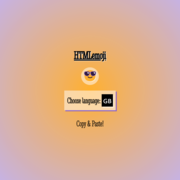
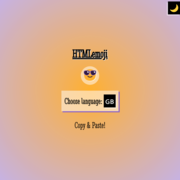
design+

diff --git a/assets/style/style.min.css b/assets/style/style.min.css
@@ -1,1 +1,1 @@
-body{font-family:"Stint Ultra Condensed",serif;font-size:3rem;min-block-size:100vh}::selection{background-color:var(--invert-alpha)}a{color:var(--base);text-decoration-color:transparent}.container{display:grid;position:relative}.theme-toggle{z-index:1000;text-align:right;margin-block-start:1rem;position:absolute;right:0}.btn-toggle{padding:.5rem 0;background-color:var(--invert);box-shadow:-6px 6px 0 0 var(--base-alpha)}.container h1{margin:.5rem 0;font-size:4rem}.container h1 a{color:var(--invert);text-decoration:none;margin:0}.modal{position:relative;background-color:var(--base);text-align:center;border-block-end:6px solid #b665c5}.modal>div{display:grid;min-block-size:100dvh;place-content:center;inset:0;background:radial-gradient(#ffb02e,#8d65c580)}.modal h1{font-size:4rem;padding-block-start:2rem;margin:0 0 2rem;text-shadow:#fff 2px 2px 0}.modal .language{block-size:6rem;text-decoration:none!important}.modal .language a{padding:.5rem;text-decoration:none;background-color:var(--invert);color:var(--base);box-shadow:6px 6px 0 var(--invert-alpha);opacity:.5}.modal .language p{line-height:0;color:#000;text-shadow:var(--invert-alpha) 2px 2px 0}.modal .language a.active{transition:.5s all;background-color:var(--invert);color:var(--base);box-shadow:6px 6px 0 var(--base-alpha);opacity:1}.modal h1 div{text-align:center;background-color:var(--base-alpha);border-radius:50%;block-size:4.4ch;inline-size:4.4ch;line-height:4.4ch;padding:.2rem;margin:2rem auto 0}.modal h1 span{text-decoration:underline;word-wrap:break-word;padding:.5rem 1rem}.modal .language{text-decoration:underline;text-decoration-color:#b665c5;background-color:var(--base-alpha);word-wrap:break-word;padding:.5rem 1rem;box-shadow:6px 6px 0 #8d65c5}.modal .language a.lang.hu{cursor:not-allowed}main p{color:var(--base);background-color:var(--invert);border-radius:2rem;padding:0 1.5rem;inline-size:auto;margin-inline:auto;display:inline-block}.query{box-shadow:inset 0 5px 0 var(--base-alpha);text-align:center;padding:1rem;background-color:var(--invert)}.container>:nth-child(4){border-block-start:6px solid #b665c5;box-shadow:none}.query span{display:grid;color:var(--base);text-align:left;grid-template-columns:50% 50%}.query label{line-height:4rem;text-align:right;color:var(--base)}.query input[type=text]{border:4px solid var(--base-alpha);background-color:var(--base);color:var(--invert);inline-size:17ch;border-radius:2rem;text-indent:.5rem;box-shadow:0 0 1rem var(--invert-alpha)}.query input[type=text]::placeholder{background-color:var(--base);color:var(--invert)}.pagecontent{background-color:var(--base);padding:0;line-height:1.5}.pagecontent .text{display:inline-block;inline-size:100%;color:var(--invert);margin-block:0;margin-inline:auto;background:var(--base)}.pagecontent .text em{color:var(--invert);white-space:nowrap}.pagecontent .text span{color:var(--invert);margin-block-end:.5rem}.pagecontent .text p{background-color:var(--base);margin:1rem 0}.pagecontent .text strong{color:var(--base);background-color:var(--invert);padding:.25rem;margin:0;place-self:baseline;margin-inline:auto}.pagecontent .parts section>.accordion__content{letter-spacing:1px}.pagecontent .parts section h2{color:var(--base);letter-spacing:2px;background-color:var(--invert);margin:0 1rem 1rem;max-inline-size:fit-content;padding:0 1rem;border-radius:2rem;font-size:2rem}.pagecontent .parts section .accordion__content h2:last-child{margin-block-end:0}.pagecontent .parts section .accordion__content h2:only-child{padding-block-end:0}.pagecontent .parts section h1{color:var(--base);background-color:var(--base-transparent);padding:0 1rem;border-radius:3rem;margin:1rem .5rem;max-inline-size:calc(100% - 1rem);font-size:3rem}.pagecontent .parts section hr{margin:0 1rem;border-color:var(--base-alpha);color:var(--base);block-size:4px;background-color:var(--base-alpha)}.pagecontent p{margin:1rem 1rem 2rem;inline-size:auto;display:inline-block;text-align:left}.pagecontent p strong{text-transform:uppercase;background-color:var(--invert-alpha);padding:0 1rem;margin-inline-end:1rem;letter-spacing:1px}.pagecontent .emojis,.pagecontent .parts section>article>div{text-align:center;font-size:5.5rem;letter-spacing:1px;text-shadow:var(--base) 2px 2px 0;place-content:center;display:grid;inline-size:calc(100vw - 5rem);grid-template-columns:repeat(7,calc((100vw / 7) - 1rem));list-style-type:none}.pagecontent .parts section>article>div>div{display:flex;flex-direction:column-reverse;margin-block-end:2rem;place-content:baseline}.pagecontent .parts section>div>div{display:grid;grid-template-rows:1fr 1fr}.pagecontent .emojis{display:none}.pagecontent .emojis li{font-size:3rem}.pagecontent .emojis>div,.pagecontent .parts>div{display:grid;text-decoration:none;background-color:rgba(141,101,197,.65);padding:0;border-radius:1.5rem;margin:1rem;border:1px solid rgba(255,255,255,.5)}.pagecontent .emojis span,.pagecontent .parts :not(.accordion__buttonspan) span{word-break:break-word;display:grid;place-content:center;z-index:100;background-color:var(--base);color:var(--invert);text-shadow:none;border-radius:1rem;padding:.25rem 1rem .5rem;line-height:2rem;margin:0 .5rem;user-select:none}.pagecontent .emojis>div>div,.pagecontent .parts section>article{display:grid}.pagecontent .emojis span,.pagecontent .parts .accordion__content span{hyphens:auto;position:relative;margin:0 1rem 0;text-align:center;display:block;font-size:2rem;text-shadow:1px 1px 0 rgba(255,255,255,.6)}.pagecontent .emojis span::selection,.pagecontent .parts .accordion__content span::selection{background-color:var(--invert);color:var(--base)}.pagecontent .emojis span:before,.pagecontent .parts .accordion__content span:before{content:" ";color:var(--base);position:absolute;top:-42px;left:calc((100% - 2rem)/ 2);right:0;block-size:33px;width:0;background-position:bottom center;display:inline-block;margin-inline-start:.255em;vertical-align:.255em;content:"";border-block-end:.3em solid;border-inline-start:.3em solid transparent;border-block-start:0;border-inline-end:.3em solid transparent}main>p{text-align:center;margin-inline:auto;display:inline-block}.pagefooter{border-block-start:6px solid rgba(255,255,255,.5);background:linear-gradient(0deg,#3f0d5f 0,#681b9a 100%);color:#fff;padding-block:2rem;font-size:2rem}.pagefooter a{color:#fff;text-decoration-color:rgba(255,255,255,.5)}.pagefooter p{margin:0 0 1rem 0;letter-spacing:2px;text-align:right;padding-inline:2rem}@media (max-width:1200px){.pagecontent .emojis,.pagecontent .parts section>article>div{grid-template-columns:repeat(6,calc(100% / 6));margin-inline-start:.5rem}}@media (max-width:980px){.pagecontent .emojis,.pagecontent .parts section>article>div{grid-template-columns:repeat(5,calc(100% / 5));margin-inline-start:.5rem}}@media (min-width:780px){.pagecontent .emojis>div>div,.pagecontent .parts section>article{max-inline-size:calc(100vw - 5.2rem)}}@media (max-width:780px){#query span{grid-template-columns:100%}#query span>label{text-align:center}.pagecontent .emojis,.pagecontent .parts section>article>div{grid-template-columns:repeat(4,calc(100% / 4));margin-inline-start:.5rem}.pagecontent .parts .text,.pagecontent .text{font-size:2rem}}@media (max-width:580px){.modal h1{font-size:4rem;line-height:7rem}.pagecontent .emojis,.pagecontent .parts section>article>div{grid-template-columns:repeat(2,calc(100% / 2));margin-inline-start:.5rem;font-size:5.5rem}}@media (max-width:392px){.pagecontent .emojis,.pagecontent .parts section>article>div{grid-template-columns:repeat(2,calc(50vw - 2rem))}}@media (max-width:305px){.pagecontent .emojis,.pagecontent .parts section>article>div{grid-template-columns:repeat(1,calc(100vw - 4rem));font-size:5.5rem}}body{background-color:var(--base)}.keyword-search{padding:0 1rem}.keyword-search__form{display:flex;flex-flow:row wrap}.keyword-search__text{display:block;width:calc(100% - 100px);color:#333;font-size:16px;line-height:50px;background-color:rgba(255,255,255,.5);border-radius:2rem 0 0 2rem;border-color:rgba(141,101,197,1);padding:0 15px;box-sizing:border-box;background-color:#fff;font-size:2rem}.keyword-search__button{display:block;width:100px;color:#fff;font-size:2rem;font-weight:700;line-height:50px;text-align:center;border-color:rgba(141,101,197,.45);background-color:rgba(141,101,197,1);box-shadow:0 0 2px rgba(141,101,197,.45);border-radius:0 2rem 2rem 0;padding:0 15px;box-sizing:border-box;cursor:pointer}.accordion{width:100%;margin:0 auto}.accordion__button{position:relative;padding:1rem;display:grid;grid-template-columns:1fr auto;width:100%;height:auto;text-align:left;border-radius:1.5rem;box-sizing:border-box;cursor:pointer;font-size:2.3rem}.accordion__button span{background-color:#fff;box-shadow:0 0 1rem rgba(141,101,197,.45);text-decoration-color:none}.accordion__button-text{color:#333;font-size:18px;line-height:1.4;padding:1rem;margin:0}.accordion__content{display:none;border-color:#202f55;border-style:solid;border-width:0;border-radius:2rem;background-color:rgba(255,255,255,.5);box-shadow:0 0 2px rgba(141,101,197,.45);padding:1rem 0;margin:1rem;box-sizing:border-box}.accordion__text{color:#333;font-size:15px;line-height:1.6;margin:0}
+body{font-family:"Stint Ultra Condensed",serif;font-size:3rem;min-block-size:100vh}::selection{background-color:var(--invert-alpha)}a{color:var(--base);text-decoration-color:transparent}.container{display:grid;position:relative}.theme-toggle{z-index:1000;text-align:right;margin-block-start:1.5rem;margin-inline-end:1rem;position:absolute;right:0}.btn-toggle{padding:.5rem 0;background-color:var(--invert);box-shadow:-6px 6px 0 0 var(--base-alpha)}.container h1{margin:.5rem 0;font-size:4rem}.container h1 a{color:var(--invert);text-decoration:none;margin:0}.modal{position:relative;background-color:var(--base);text-align:center;border-block-end:6px solid #b665c5}.modal>div{display:grid;min-block-size:100dvh;place-content:center;inset:0;background:radial-gradient(#ffb02e,#8d65c580)}.modal h1{font-size:4rem;margin:0 0 2rem;text-shadow:#fff 2px 2px 0}.modal .language{display:grid;grid-template-rows:auto auto;grid-template-columns:auto;text-decoration:none!important;line-height:4rem}.modal .language a{padding:.5rem;text-decoration:none;background-color:var(--invert);color:var(--base);box-shadow:6px 6px 0 var(--invert-alpha);opacity:.5}.modal .language p{margin:1rem 0;color:#000;text-shadow:var(--invert-alpha) 2px 2px 0}.modal .language a.active{transition:.5s all;background-color:var(--invert);color:var(--base);box-shadow:6px 6px 0 var(--base-alpha);opacity:1;display:block}.modal h1 div{text-align:center;background-color:var(--base-alpha);border-radius:50%;block-size:4.4ch;inline-size:4.4ch;line-height:4.4ch;padding:.2rem;margin:2rem auto 0}.modal h1 span{text-decoration:underline;word-wrap:break-word;padding:.5rem 1rem}.modal .language{text-decoration:underline;text-decoration-color:#b665c5;background-color:var(--base-alpha);word-wrap:break-word;padding:.5rem 1rem;box-shadow:6px 6px 0 #8d65c5}.modal .language a.lang.hu{cursor:not-allowed}main p{color:var(--base);background-color:var(--invert);border-radius:2rem;padding:0 1.5rem;inline-size:auto;margin-inline:auto;display:inline-block}.query{box-shadow:inset 0 5px 0 var(--base-alpha);text-align:center;padding:1rem;background-color:var(--invert)}.container>:nth-child(4){border-block-start:6px solid #b665c5;box-shadow:none}.query span{display:grid;color:var(--base);text-align:left;grid-template-columns:50% 50%}.query label{line-height:4rem;text-align:right;color:var(--base)}.query input[type=text]{border:4px solid var(--base-alpha);background-color:var(--base);color:var(--invert);inline-size:17ch;border-radius:2rem;text-indent:.5rem;box-shadow:0 0 1rem var(--invert-alpha)}.query input[type=text]::placeholder{background-color:var(--base);color:var(--invert)}.pagecontent{background-color:var(--base);padding:0;line-height:1.5}.pagecontent .text{display:inline-block;inline-size:100%;color:var(--invert);margin-block:0;margin-inline:auto;background:var(--base)}.pagecontent .text em{color:var(--invert);white-space:nowrap}.pagecontent .text span{color:var(--invert);margin-block-end:.5rem;letter-spacing:2px}.pagecontent .text p{background-color:var(--base);margin:1rem 0}.pagecontent .text strong{color:var(--base);background-color:var(--invert);padding:.25rem;margin:0;place-self:baseline;margin-inline:auto}.pagecontent .parts section h2{color:var(--base);letter-spacing:2px;background-color:var(--invert);margin:0 1rem 1rem;max-inline-size:fit-content;padding:0 1rem;border-radius:2rem;font-size:2rem}.pagecontent .parts section .accordion__content h2:last-child{margin-block-end:0}.pagecontent .parts section .accordion__content h2:only-child{padding-block-end:0}.pagecontent .parts section h1{color:var(--base);background-color:var(--base-transparent);padding:0 1rem;border-radius:3rem;margin:1rem .5rem;max-inline-size:calc(100% - 1rem);font-size:3rem}.pagecontent .parts section hr{margin:0 1rem;border-color:var(--base-alpha);color:var(--base);block-size:4px;background-color:var(--base-alpha)}.pagecontent p{margin:1rem 1rem 2rem;inline-size:auto;display:inline-block;text-align:left}.pagecontent p strong{text-transform:uppercase;background-color:var(--invert-alpha);padding:0 1rem;margin-inline-end:1rem}.pagecontent .emojis,.pagecontent .parts section>article>div{text-align:center;font-size:5.5rem;text-shadow:var(--base) 2px 2px 0;place-content:center;display:grid;inline-size:calc(100vw - 5rem);grid-template-columns:repeat(7,calc((100vw / 7) - 1rem));list-style-type:none}.pagecontent .parts section>article>div>div{display:flex;flex-direction:column-reverse;margin-block-end:2rem;place-content:baseline}.pagecontent .parts section>div>div{display:grid;grid-template-rows:1fr 1fr}.pagecontent .emojis{display:none}.pagecontent .emojis li{font-size:3rem}.pagecontent .emojis>div,.pagecontent .parts>div{display:grid;text-decoration:none;background-color:rgba(141,101,197,.65);padding:0;border-radius:1.5rem;margin:1rem;border:1px solid rgba(255,255,255,.5)}.pagecontent .emojis span,.pagecontent .parts :not(.accordion__buttonspan) span{word-break:break-word;display:grid;place-content:center;z-index:100;background-color:var(--base);color:var(--invert);text-shadow:none;border-radius:1rem;padding:.25rem 1rem .5rem;line-height:2rem;margin:0 .5rem;user-select:none}.pagecontent .emojis>div>div,.pagecontent .parts section>article{display:grid}.pagecontent .emojis span,.pagecontent .parts .accordion__content span{hyphens:auto;position:relative;margin:0 1rem 0;text-align:center;display:block;font-size:2rem;text-shadow:1px 1px 0 rgba(255,255,255,.6)}.pagecontent .emojis span::selection,.pagecontent .parts .accordion__content span::selection{background-color:var(--invert);color:var(--base)}.pagecontent .emojis span:before,.pagecontent .parts .accordion__content span:before{content:" ";color:var(--base);position:absolute;top:-42px;left:calc((100% - 2rem)/ 2);right:0;block-size:33px;width:0;background-position:bottom center;display:inline-block;margin-inline-start:.255em;vertical-align:.255em;content:"";border-block-end:.3em solid;border-inline-start:.3em solid transparent;border-block-start:0;border-inline-end:.3em solid transparent}main>p{text-align:center;margin-inline:auto;display:inline-block}.pagefooter{border-block-start:6px solid rgba(255,255,255,.5);background:linear-gradient(0deg,#3f0d5f 0,#681b9a 100%);color:#fff;padding-block:2rem 1rem;font-size:2rem}.pagefooter a{color:#fff;text-decoration-color:rgba(255,255,255,.5)}.pagefooter p{margin:0 0 1rem 0;letter-spacing:2px;text-align:right;padding-inline:2rem}@media (max-width:1200px){.pagecontent .emojis,.pagecontent .parts section>article>div{grid-template-columns:repeat(6,calc(100% / 6));margin-inline-start:.5rem}}@media (max-width:980px){.pagecontent .emojis,.pagecontent .parts section>article>div{grid-template-columns:repeat(5,calc(100% / 5));margin-inline-start:.5rem}}@media (min-width:780px){.pagecontent .emojis>div>div,.pagecontent .parts section>article{max-inline-size:calc(100vw - 5.2rem)}}@media (max-width:780px){#query span{grid-template-columns:100%}#query span>label{text-align:center}.pagecontent .emojis,.pagecontent .parts section>article>div{grid-template-columns:repeat(4,calc(100% / 4));margin-inline-start:.5rem}.pagecontent .parts .text,.pagecontent .text{font-size:2rem}}@media (max-width:580px){.modal h1{font-size:4rem;line-height:7rem}.pagecontent .emojis,.pagecontent .parts section>article>div{grid-template-columns:repeat(2,calc(100% / 2));margin-inline-start:.5rem;font-size:5.5rem}}@media (max-width:392px){.pagecontent .emojis,.pagecontent .parts section>article>div{grid-template-columns:repeat(2,calc(50vw - 2rem))}}@media (max-width:305px){.pagecontent .emojis,.pagecontent .parts section>article>div{grid-template-columns:repeat(1,calc(100vw - 4rem));font-size:5.5rem}}body{background-color:var(--base)}.keyword-search{padding:0 1rem}.keyword-search__form{display:flex;flex-flow:row wrap}.keyword-search__text{display:block;width:calc(100% - 100px);color:#333;font-size:16px;line-height:50px;background-color:rgba(255,255,255,.5);border-radius:2rem 0 0 2rem;border-color:rgba(141,101,197,1);padding:0 15px;box-sizing:border-box;background-color:#fff;font-size:2rem}.keyword-search__button{display:block;width:100px;color:#fff;font-size:2rem;font-weight:700;line-height:50px;text-align:center;border-color:rgba(141,101,197,.45);background-color:rgba(141,101,197,1);box-shadow:0 0 2px rgba(141,101,197,.45);border-radius:0 2rem 2rem 0;padding:0 15px;box-sizing:border-box;cursor:pointer}.accordion{width:100%;margin:0 auto}.accordion__button{position:relative;padding:1rem;display:grid;grid-template-columns:1fr auto;width:100%;height:auto;text-align:left;border-radius:1.5rem;box-sizing:border-box;cursor:pointer;font-size:2.3rem}.accordion__button span{background-color:#fff;box-shadow:0 0 1rem rgba(141,101,197,.45);text-decoration-color:none}.accordion__button-text{color:#333;font-size:18px;line-height:1.4;padding:1rem;margin:0}.accordion__content{display:none;border-color:#202f55;border-style:solid;border-width:0;border-radius:2rem;background-color:rgba(255,255,255,.5);box-shadow:0 0 2px rgba(141,101,197,.45);padding:1rem 0;margin:1rem;box-sizing:border-box}.accordion__text{color:#333;font-size:15px;line-height:1.6;margin:0}

diff --git a/assets/script/i18next.en.jquery.min.js b/assets/script/i18next.en.jquery.min.js
@@ -1,1 +1,1 @@
-$(function(){$(".accordion__button").each(function(){return""==$(this).children("span").text()?$(this).attr("title","open"):"▾"==$(this).children("span").text()?($(this).attr("title","open"),$(".accordion__content").css("display","none")):"▴"==$(this).children("span").text()&&$(this).attr("title","close"),!1}),$(".accordion__button").click(function(){"▾"==$(this).children("span").text()?($(this).attr("title","close"),$(this).children("span").text("▴")):"▴"==$(this).children("span").text()&&($(this).attr("title","open"),$(this).children("span").text("▾"))}),$(".hu").click(function(){return $("body").localize({lng:"hu"}),!1}),$(".en").click(function(){return $("body").localize({lng:"en"}),!1}),$(".language a").click(function(){return $(".language a").each(function(){$(this).hasClass("active")&&$(this).removeClass("active")}),$(this).addClass("active"),!1}),i18next.use(i18nextBrowserLanguageDetector).init({debug:!0,fallbackLng:"en",lng:"en",resources:{en:{translation:{language:{text:"Language: ",huTitle:"Hungarian",huLogo:"🇭🇺",enTitle:"English",enLogo:"🇬🇧"},modal:{text:"copy & paste"},form:{search:"Open category, find emoji"},usage:{title:"Usage:",step1:"open category [▾]",step2:"find & select emoji",step3:"copy emoji"},smileys:{faceSmiling1:"grinning face",faceSmiling2:"grinning face with big eyes",faceSmiling3:"grinning face with smiling eyes",faceSmiling4:"beaming face with smiling eyes",faceSmiling5:"grinning squinting face",faceSmiling6:"grinning face with sweat",faceSmiling7:"rolling on the floor laughing",faceSmiling8:"face with tears of joy",faceSmiling9:"slightly smiling face",faceSmiling10:"upside-down face",faceSmiling11:"melting face",faceSmiling12:"winking face",faceSmiling13:"smiling face with smiling eyes",faceSmiling14:"smiling face with halo",faceAffection1:"smiling face with hearts",faceAffection2:"smiling face with heart-eyes",faceAffection3:"star-struck",faceAffection4:"face blowing a kiss",faceAffection5:"kissing face",faceAffection6:"smiling face with tear",faceTongue1:"face savoring food",faceTongue2:"face with tongue",faceTongue3:"winking face with tongue",faceTongue4:"zany face",faceTongue5:"squinting face with tongue",faceTongue6:"money-mouth face",faceHand1:"smiling face with open hands",faceHand2:"face with hand over mouth",faceHand3:"face with open eyes and hand over mouth",faceHand4:"face with peeking eye",faceHand5:"shushing face",faceHand6:"thinking face",faceHand7:"saluting face",faceneutral1:"zipper-mouth face",faceneutral2:"face with raised eyebrow",faceneutral3:"neutral face",faceneutral4:"expressionless face",faceneutral5:"face without mouth",faceneutral6:"dotted line face",faceneutral7:"face in clouds",faceneutral8:"smirking face",faceneutral9:"unamused face",faceneutral10:"face with rolling eyes",faceneutral11:"grimacing face",faceneutral12:"face exhaling",faceneutral13:"lying face"}}}}},function(e,n){jqueryI18next.init(i18next,$,{useOptionsAttr:!0}),$("body").localize()})});
+$(function(){$(".accordion__button").each(function(){return""==$(this).children("span").text()?$(this).attr("title","open"):"▾"==$(this).children("span").text()?($(this).attr("title","open"),$(".accordion__content").css("display","none")):"▴"==$(this).children("span").text()&&$(this).attr("title","close"),!1}),$(".accordion__button").click(function(){"▾"==$(this).children("span").text()?($(this).attr("title","close"),$(this).children("span").text("▴")):"▴"==$(this).children("span").text()&&($(this).attr("title","open"),$(this).children("span").text("▾"))}),$(".hu").click(function(){return $("body").localize({lng:"hu"}),!1}),$(".en").click(function(){return $("body").localize({lng:"en"}),!1}),$(".language a").click(function(){return $(".language a").each(function(){$(this).hasClass("active")&&$(this).removeClass("active")}),$(this).addClass("active"),!1}),i18next.use(i18nextBrowserLanguageDetector).init({debug:!0,fallbackLng:"en",lng:"en",resources:{en:{translation:{language:{text:"Language: ",huTitle:"Hungarian",huLogo:"🇭🇺",enTitle:"English",enLogo:"🇬🇧"},modal:{text:"copy & paste"},form:{search:"open category, find emoji"},usage:{title:"Usage:",step1:"open category [▾]",step2:"find & select emoji",step3:"copy emoji"},smileys:{faceSmiling1:"grinning face",faceSmiling2:"grinning face with big eyes",faceSmiling3:"grinning face with smiling eyes",faceSmiling4:"beaming face with smiling eyes",faceSmiling5:"grinning squinting face",faceSmiling6:"grinning face with sweat",faceSmiling7:"rolling on the floor laughing",faceSmiling8:"face with tears of joy",faceSmiling9:"slightly smiling face",faceSmiling10:"upside-down face",faceSmiling11:"melting face",faceSmiling12:"winking face",faceSmiling13:"smiling face with smiling eyes",faceSmiling14:"smiling face with halo",faceAffection1:"smiling face with hearts",faceAffection2:"smiling face with heart-eyes",faceAffection3:"star-struck",faceAffection4:"face blowing a kiss",faceAffection5:"kissing face",faceAffection6:"smiling face with tear",faceTongue1:"face savoring food",faceTongue2:"face with tongue",faceTongue3:"winking face with tongue",faceTongue4:"zany face",faceTongue5:"squinting face with tongue",faceTongue6:"money-mouth face",faceHand1:"smiling face with open hands",faceHand2:"face with hand over mouth",faceHand3:"face with open eyes and hand over mouth",faceHand4:"face with peeking eye",faceHand5:"shushing face",faceHand6:"thinking face",faceHand7:"saluting face",faceneutral1:"zipper-mouth face",faceneutral2:"face with raised eyebrow",faceneutral3:"neutral face",faceneutral4:"expressionless face",faceneutral5:"face without mouth",faceneutral6:"dotted line face",faceneutral7:"face in clouds",faceneutral8:"smirking face",faceneutral9:"unamused face",faceneutral10:"face with rolling eyes",faceneutral11:"grimacing face",faceneutral12:"face exhaling",faceneutral13:"lying face"}}}}},function(e,n){jqueryI18next.init(i18next,$,{useOptionsAttr:!0}),$("body").localize()})});

diff --git a/index.html b/index.html
@@ -1,1 +1,9 @@
-<!DOCTYPE html><html lang="en"><head><meta charset="UTF-8"><meta name="viewport" content="width=device-width,initial-scale=1"><title>HTMLemoji - copy &amp; paste</title><link rel="apple-touch-icon" sizes="180x180" href="https://htmlemoji.netlify.app/media/image/apple-touch-icon.png"><link rel="icon" type="image/png" sizes="32x32" href="https://htmlemoji.netlify.app/media/image/favicon-32x32.png"><link rel="icon" type="image/png" sizes="16x16" href="https://htmlemoji.netlify.app/media/image/favicon-16x16.png"><link rel="manifest" href="htmlemoji.webmanifest"><link rel="mask-icon" href="https://htmlemoji.netlify.app/media/image/safari-pinned-tab.svg" color="#5bbad5"><meta name="msapplication-TileColor" content="#da532c"><meta name="theme-color" content="#ffffff"><meta property="og:site_name" content="HTMLemoji"><meta property="og:type" content="website"><meta property="og:description" content="copy &amp; paste"><meta property="og:image" content="https://htmlemoji.netlify.app/media/image/android-chrome-512x512.png"><meta property="og:url" content="https://htmlemoji.netlify.app"><meta property="og:locale" content="en_US"><meta property="og:title" content="HTMLemoji"><meta name="description" content="copy &amp; paste"><meta name="author" content="iamdtms (Dohany Tamas)"><meta name="keywords" content="HTML, emoji, copy, paste, iamdtms"><meta name="googlebot" content="all"><link rel="preconnect" href="https://fonts.googleapis.com"><link rel="preconnect" href="https://fonts.gstatic.com" crossorigin><link href="https://fonts.googleapis.com/css2?family=Stint+Ultra+Condensed&display=swap" rel="stylesheet"><link rel="stylesheet" href="assets/style/normalize.min.css"><link rel="stylesheet" id="theme" href="#"><link rel="stylesheet" href="assets/style/style.min.css"></head><body><div class="container"><div class="theme-toggle"><a class="btn-toggle" href="#" title=""></a></div><div class="modal"><div><h1><span>HTMLemoji</span><div>😎</div></h1><section id="language" class="language"><p><span>Choose language: </span><!--<a href="#" title="Hungarian not allowed now" class="lang hu active">🇭🇺</a>&nbsp; --><a href="en.html" class="lang en active" title="English">🇬🇧</a></p></section><p>Copy &amp; Paste!</p></div></div><footer class="pagefooter"><p>(CC) 2023 - 2024 <a href="https://iamdtms.hu">iamdtms</a>. <a href="https://creativecommons.org/licenses/by-nc-sa/4.0/">Some rights reserved</a>.</p><p>Based on <a href="https://unicode.org/emoji/charts/full-emoji-list.html">Unicode Emoji List</a>.</p><p>Lighthouse <a href="htmlemoji.netlify.app-20240918T221024">report available</a>.</p></footer></div><script src="assets/script/js.cookie.min.js"></script><script src="assets/script/theme.min.js"></script><script defer src="https://cloud.umami.is/script.js" data-website-id="bf64af9c-f511-46a2-a021-b80357f0a01d"></script></body></html>
+<!DOCTYPE html><html lang="en"><head><meta charset="UTF-8"><meta name="viewport" content="width=device-width,initial-scale=1"><title>HTMLemoji - copy &amp; paste</title><link rel="apple-touch-icon" sizes="180x180" href="https://htmlemoji.netlify.app/media/image/apple-touch-icon.png"><link rel="icon" type="image/png" sizes="32x32" href="https://htmlemoji.netlify.app/media/image/favicon-32x32.png"><link rel="icon" type="image/png" sizes="16x16" href="https://htmlemoji.netlify.app/media/image/favicon-16x16.png"><link rel="manifest" href="htmlemoji.webmanifest"><link rel="mask-icon" href="https://htmlemoji.netlify.app/media/image/safari-pinned-tab.svg" color="#5bbad5"><meta name="msapplication-TileColor" content="#da532c"><meta name="theme-color" content="#ffffff"><meta property="og:site_name" content="HTMLemoji"><meta property="og:type" content="website"><meta property="og:description" content="copy &amp; paste"><meta property="og:image" content="https://htmlemoji.netlify.app/media/image/android-chrome-512x512.png"><meta property="og:url" content="https://htmlemoji.netlify.app"><meta property="og:locale" content="en_US"><meta property="og:title" content="HTMLemoji"><meta name="description" content="copy &amp; paste"><meta name="author" content="iamdtms (Dohany Tamas)"><meta name="keywords" content="HTML, emoji, copy, paste, iamdtms"><meta name="googlebot" content="all"><link rel="preconnect" href="https://fonts.googleapis.com"><link rel="preconnect" href="https://fonts.gstatic.com" crossorigin><link href="https://fonts.googleapis.com/css2?family=Stint+Ultra+Condensed&display=swap" rel="stylesheet"><link rel="stylesheet" href="assets/style/normalize.min.css"><link rel="stylesheet" id="theme" href="#"><link rel="stylesheet" href="assets/style/style.min.css"></head><body><div class="container"><div class="theme-toggle"><a class="btn-toggle" href="#" title=""></a></div><div class="modal"><div><h1><span>HTMLemoji</span><div>😎</div></h1>
+  <section id="language" class="language">
+    <p>
+      <span>Choose language: </span><br>
+      <!--<a href="#" title="Hungarian not allowed now" class="lang hu active">🇭🇺</a>&nbsp; -->
+      <a href="en.html" class="lang en active" title="English">🇬🇧</a>
+    </p>
+  </section>
+  <p>Copy &amp; Paste!</p></div></div><footer class="pagefooter"><p>(CC) 2023 - 2024 <a href="https://iamdtms.hu">iamdtms</a>. <a href="https://creativecommons.org/licenses/by-nc-sa/4.0/">Some rights reserved</a>.</p><p>Based on <a href="https://unicode.org/emoji/charts/full-emoji-list.html">Unicode Emoji List</a>.</p><p>Lighthouse <a href="htmlemoji.netlify.app-20240918T221024">report available</a>.</p></footer></div><script src="assets/script/js.cookie.min.js"></script><script src="assets/script/theme.min.js"></script><script defer src="https://cloud.umami.is/script.js" data-website-id="bf64af9c-f511-46a2-a021-b80357f0a01d"></script></body></html>

diff --git a/index.min.html b/index.min.html
@@ -1,0 +1,1 @@
+<!DOCTYPE html><html lang="en"><head><meta charset="UTF-8"><meta name="viewport" content="width=device-width,initial-scale=1"><title>HTMLemoji - copy &amp; paste</title><link rel="apple-touch-icon" sizes="180x180" href="https://htmlemoji.netlify.app/media/image/apple-touch-icon.png"><link rel="icon" type="image/png" sizes="32x32" href="https://htmlemoji.netlify.app/media/image/favicon-32x32.png"><link rel="icon" type="image/png" sizes="16x16" href="https://htmlemoji.netlify.app/media/image/favicon-16x16.png"><link rel="manifest" href="htmlemoji.webmanifest"><link rel="mask-icon" href="https://htmlemoji.netlify.app/media/image/safari-pinned-tab.svg" color="#5bbad5"><meta name="msapplication-TileColor" content="#da532c"><meta name="theme-color" content="#ffffff"><meta property="og:site_name" content="HTMLemoji"><meta property="og:type" content="website"><meta property="og:description" content="copy &amp; paste"><meta property="og:image" content="https://htmlemoji.netlify.app/media/image/android-chrome-512x512.png"><meta property="og:url" content="https://htmlemoji.netlify.app"><meta property="og:locale" content="en_US"><meta property="og:title" content="HTMLemoji"><meta name="description" content="copy &amp; paste"><meta name="author" content="iamdtms (Dohany Tamas)"><meta name="keywords" content="HTML, emoji, copy, paste, iamdtms"><meta name="googlebot" content="all"><link rel="preconnect" href="https://fonts.googleapis.com"><link rel="preconnect" href="https://fonts.gstatic.com" crossorigin><link href="https://fonts.googleapis.com/css2?family=Stint+Ultra+Condensed&display=swap" rel="stylesheet"><link rel="stylesheet" href="assets/style/normalize.min.css"><link rel="stylesheet" id="theme" href="#"><link rel="stylesheet" href="assets/style/style.min.css"></head><body><div class="container"><div class="theme-toggle"><a class="btn-toggle" href="#" title=""></a></div><div class="modal"><div><h1><span>HTMLemoji</span><div>😎</div></h1><section id="language" class="language"><p><span>Choose language: </span><!--<a href="#" title="Hungarian not allowed now" class="lang hu active">🇭🇺</a>&nbsp; --> <a href="en.html" class="lang en active" title="English">🇬🇧</a></p></section><p>Copy &amp; Paste!</p></div></div><footer class="pagefooter"><p>(CC) 2023 - 2024 <a href="https://iamdtms.hu">iamdtms</a>. <a href="https://creativecommons.org/licenses/by-nc-sa/4.0/">Some rights reserved</a>.</p><p>Based on <a href="https://unicode.org/emoji/charts/full-emoji-list.html">Unicode Emoji List</a>.</p><p>Lighthouse <a href="htmlemoji.netlify.app-20240918T221024">report available</a>.</p></footer></div><script src="assets/script/js.cookie.min.js"></script><script src="assets/script/theme.min.js"></script><script defer src="https://cloud.umami.is/script.js" data-website-id="bf64af9c-f511-46a2-a021-b80357f0a01d"></script></body></html>

diff --git a/assets/style/style.css b/assets/style/style.css
@@ -26,7 +26,8 @@ a {
 .theme-toggle {
   z-index: 1000;
   text-align: right;
-  margin-block-start: 1rem;
+  margin-block-start: 1.5rem;
+  margin-inline-end: 1rem;
   position: absolute;
   right: 0;
 }
@@ -69,7 +70,7 @@ a {
 
 .modal h1 {
   font-size: 4rem;
-  padding-block-start: 2rem;
+  /*padding-block-start: 2rem;*/
   /*line-height: 8rem;*/
   margin: 0 0 2rem;
   text-shadow: white 2px 2px 0;
@@ -84,8 +85,12 @@ a {
     border-radius: 3rem;
     text-align: right;
     z-index: 10;*/
-  block-size: 6rem;
+  display: grid;
+  grid-template-rows: auto auto;
+  grid-template-columns: auto;
+  /*block-size: 6rem;*/
   text-decoration: none !important;
+  line-height: 4rem;
   /*padding-block: 6rem;*/
 }
 
@@ -99,7 +104,8 @@ a {
 }
 
 .modal .language p {
-  line-height: 0;
+  margin: 1rem 0;
+  /*line-height: 0;*/
   color: black;
   text-shadow: var(--invert-alpha) 2px 2px 0;
 }
@@ -110,6 +116,7 @@ a {
   color: var(--base);
   box-shadow: 6px 6px 0 var(--base-alpha);
   opacity: 1;
+  display: block;
 }
 
 .modal h1 div {
@@ -228,6 +235,7 @@ main p {
 .pagecontent .text span {
   color: var(--invert);
   margin-block-end: 0.5rem;
+  letter-spacing: 2px;
 }
 
 .pagecontent .text p {
@@ -249,8 +257,8 @@ main p {
 }*/
 
 .pagecontent .parts section > .accordion__content {
-  letter-spacing: 1px;
-  /*background-color: var(--invert);
+  /*letter-spacing: 1px;
+    background-color: var(--invert);
     padding: 1rem;*/
 }
 
@@ -308,7 +316,7 @@ main p {
   background-color: var(--invert-alpha);
   padding: 0 1rem;
   margin-inline-end: 1rem;
-  letter-spacing: 1px;
+  /*letter-spacing: 1px;*/
   /*box-shadow: 1px -1px 0 var(--base);*/
 }
 
@@ -319,7 +327,7 @@ main p {
   font-size: 5.5rem;
   /*font-size-adjust: inherit;*/
   /*line-height: 4ch;*/
-  letter-spacing: 1px;
+  /*letter-spacing: 1px;*/
   text-shadow: var(--base) 2px 2px 0;
   place-content: center;
   /*padding: 1rem;*/
@@ -445,7 +453,7 @@ main > p {
   border-block-start: 6px solid rgba(255, 255, 255, 0.5);
   background: linear-gradient(0deg, #3f0d5f 0%, #681b9a 100%);
   color: white;
-  padding-block: 2rem;
+  padding-block: 2rem 1rem;
   font-size: 2rem;
 }
 

diff --git a/assets/script/i18next.en.jquery.js b/assets/script/i18next.en.jquery.js
@@ -59,7 +59,7 @@ $(function () {
               text: "copy & paste"
             },
             form: {
-              search: "Open category, find emoji"
+              search: "open category, find emoji"
             },
             usage: {
               title: "Usage:",
